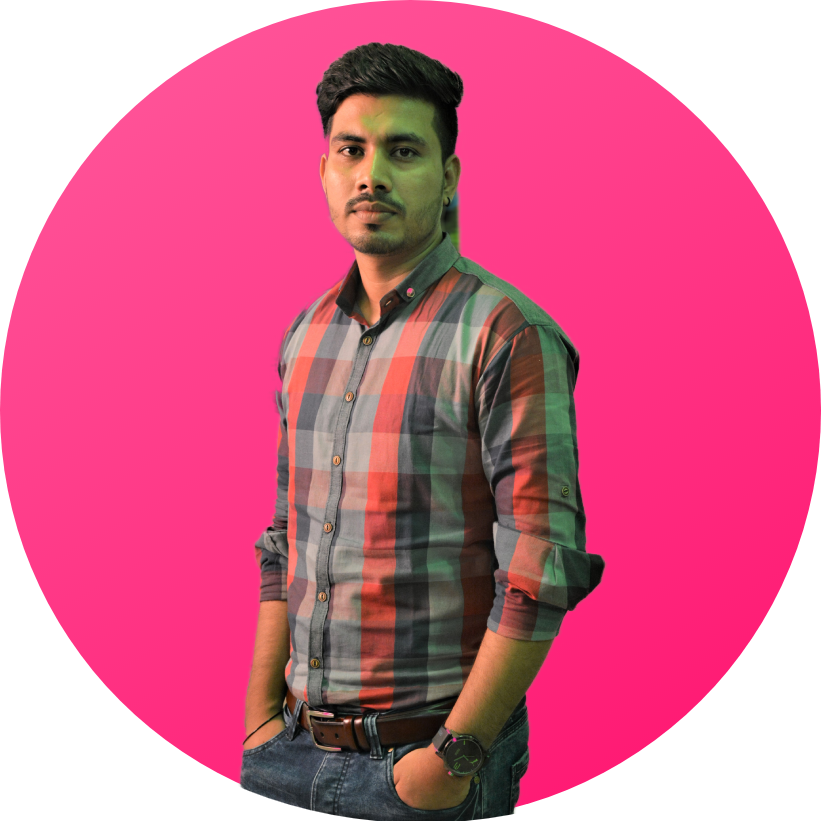
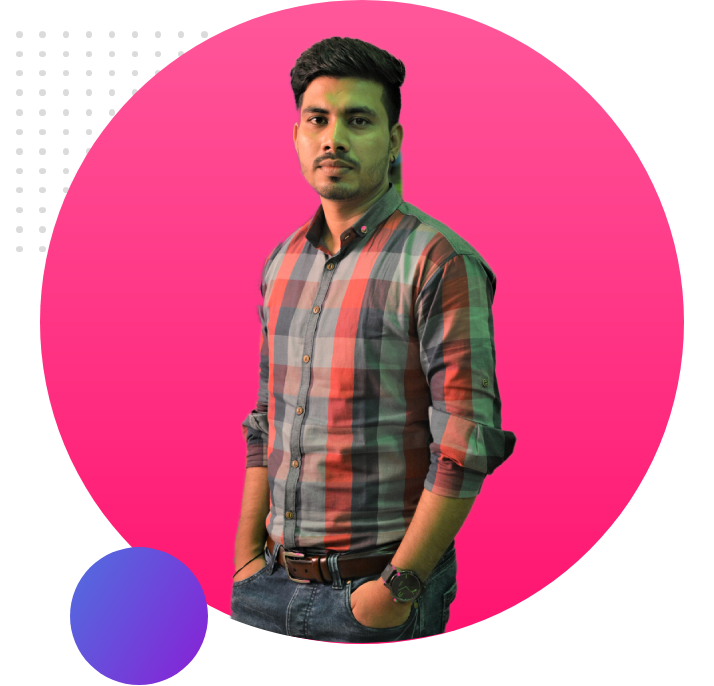
Website Completed

diff --git a/index.html b/index.html
@@ -7,17 +7,55 @@
     <link rel="stylesheet" href="assets/css/style.css">
 </head>
 <body>
+
+    <!-- header top area start -->
     <section class="header-top">
-        <div class="header-content">
+        <div class="header-content half-width">
             <h1>Welcome to</h1>
-            <h2><span class="name-highlight">Rony Jackson</span> World</h2>
-            <b class="">Build Climber and Train Stopper</b>
-            <p>You might saw me jumping, climbing buildings, and stopping trains. But nobody pays me a dime for that work. That's why I am learning and mastering web development. I will not stop until I become the Web Development Hero.</p>
-            <a href="" targer = "_blank">HIRE ME</a>
+            <h2><span class="color-highlight">Rony Jackson</span> World</h2>
+            <b class="">Full stack web developer</b>
+            <p>My passion is coding and i wish one day i will be one of the successful web developer in the world. That's why I am learning and mastering web development. I will not stop until I become the Web Development Hero.</p>
+            <a href="" class="link-button" target = "_blank">HIRE ME</a>
         </div>
-        <div class="portfolio-image">
+        <div class="portfolio-image half-width">
             <img src="assets/images/1.png" alt="">
         </div>
     </section>
+    <!-- header top area end -->
+
+    <!-- dream goal area start -->
+    <section class="dream-goal">
+        <div class="portfolio-image half-width">
+            <img src="assets/images/2.png" alt="">
+        </div>
+        <div class="my-skills half-width">
+            <h2>Dream to become a web developer</h2>
+            <b>With dedication and hardworking</b>
+            <p>I already learned the basic HTML and CSS. I can build any simple website. I can even teach my grandma how to make simple website. My goal is to build 3 websites and learn advanced topics. </p>
+            <a href="" class="link-button" target = "_blank">DOWNLOAD RESUME</a>
+        </div>
+    </section>
+    <!-- dream goal area end -->
+
+    <!-- experience area start -->
+    <section class="experience-area">
+        <h2>Experiences</h2>
+        <div id="full-stack" class="half-width single-experience">
+            <h2>Full Stack Web Developer</h2>
+            <b class="color-highlight">2021-Present | Pro Level Developer</b>
+            <p>I am the master of HTML, CSS and Javascript. I know everything needed to make a website function, efficient. I didn't stop with the web. I went beyond with most popular Javascript framework called Vue JS. I even know the deployment, server and security. I will give you 100% web solution.</p>
+        </div>
+        <div id="baby-web" class="half-width single-experience">
+            <h2>Baby Web Developer</h2>
+            <b class="color-highlight">2020-2021 | Programming Hero Learner</b>
+            <p>They didn't offer me a job. But I made myself as a remove web developer. I made their website and showed it to them. They liked it. And uploaded the content. It was fun working at Programming Hero.</p>
+            
+        </div>
+    </section>
+    <!-- experience-area end -->
+
+    <footer>
+        <p>© Rony Jackson 2021, all right reserved.</p> 
+    </footer>
 </body>
 </html>

diff --git a/assets/css/style.css b/assets/css/style.css
@@ -8,29 +8,28 @@ h1 {
     font-size: 50px;
     margin-bottom: 20px;
 }
-
 h2 {
     font-size: 40px;
 }
-
-.name-highlight {
+.color-highlight {
     color: #FF428D;
 }
-
 .header-top {
     background-image: url(../images/top-banner.png);
     height: 500px;
     background-repeat: no-repeat;
-}
+    padding-bottom:150px;
 
-.header-content, .portfolio-image {
+}
+.half-width {
     width: 40%;
     float: left;
-    margin: 0 5%;
+    margin-left: 5%;
+    padding-left: 2%;
 }
-
-.header-content a {
-    background-color: #FF428D;
+.link-button {
+    
+    background-image:linear-gradient(45deg, #e76cb2, #FF428D );
     color: #fff;
     padding: 8px 20px;
     border: 1px solid transparent;
@@ -38,7 +37,44 @@ h2 {
     font-weight: bold;
     text-decoration: none;
 }
-
 .portfolio-image img {
     width: 100%;
+}
+.dream-goal{
+
+    background-image: url(../images/dream-bg.png);
+    background-repeat: no-repeat;
+    background-position: right;
+    height:500px; 
+    padding-bottom:150px;
+}
+.experience-area{
+
+    background-image: url(../images/exp-bg.png);
+    background-repeat: no-repeat;
+    background-position: left;
+    height:500px;   
+}
+.single-experience{
+
+    box-shadow:10px 10px 40px gray;
+    height:70%;
+    background-color: #fff;
+    border-radius: 10px;
+
+}
+#full-stack{
+    border-image: linear-gradient(180deg, lightsalmon, tomato);
+    border-left:7px solid;
+    border-image-slice:1;
+}
+#baby-web{
+
+    border-image: linear-gradient(180deg, blue, cyan);
+    border-left:7px solid;
+    border-image-slice:1;
+}
+footer{
+
+    text-align: center;
 }
